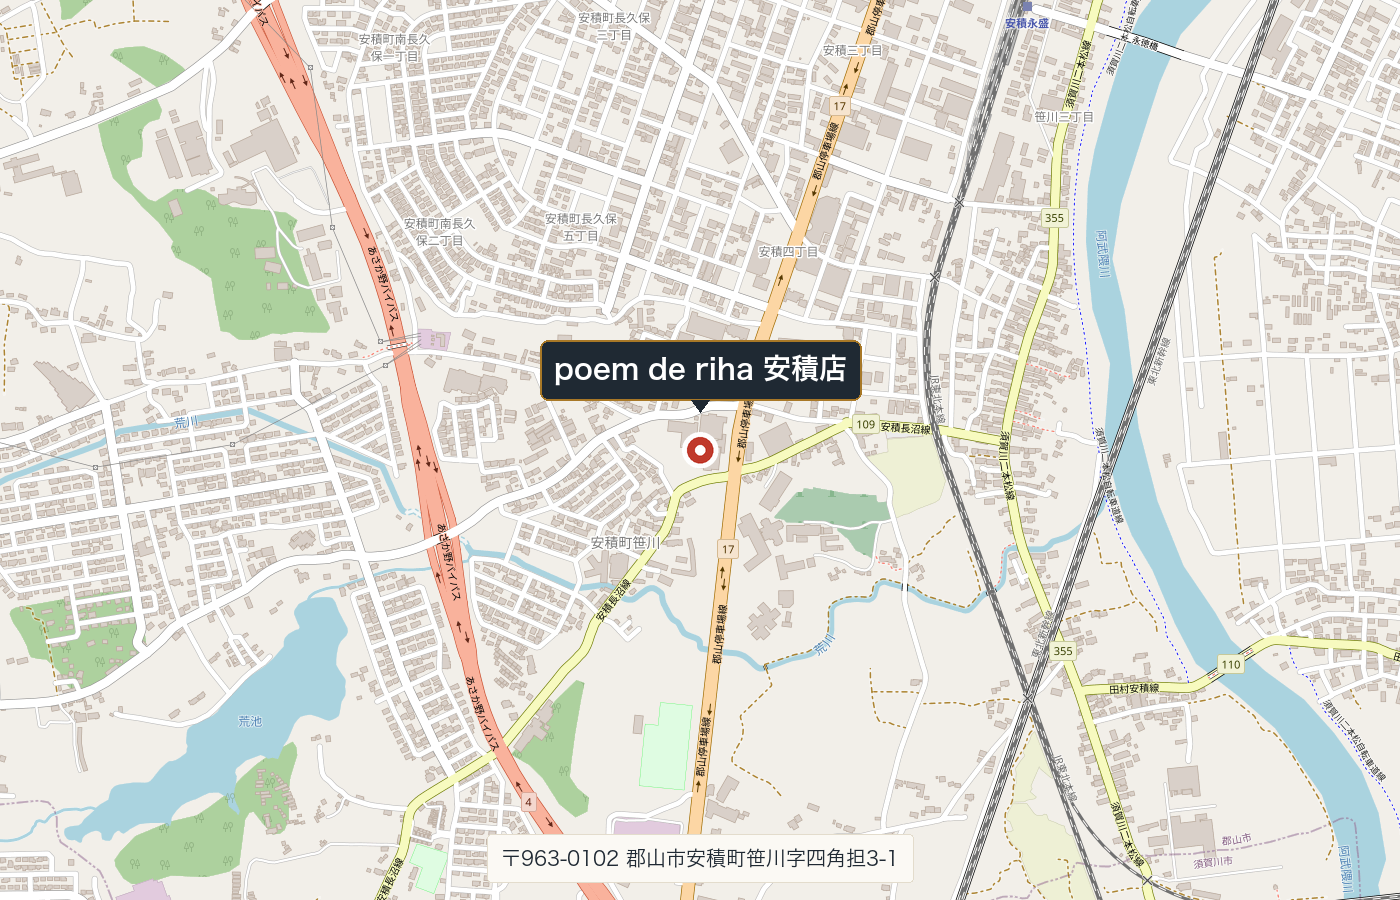
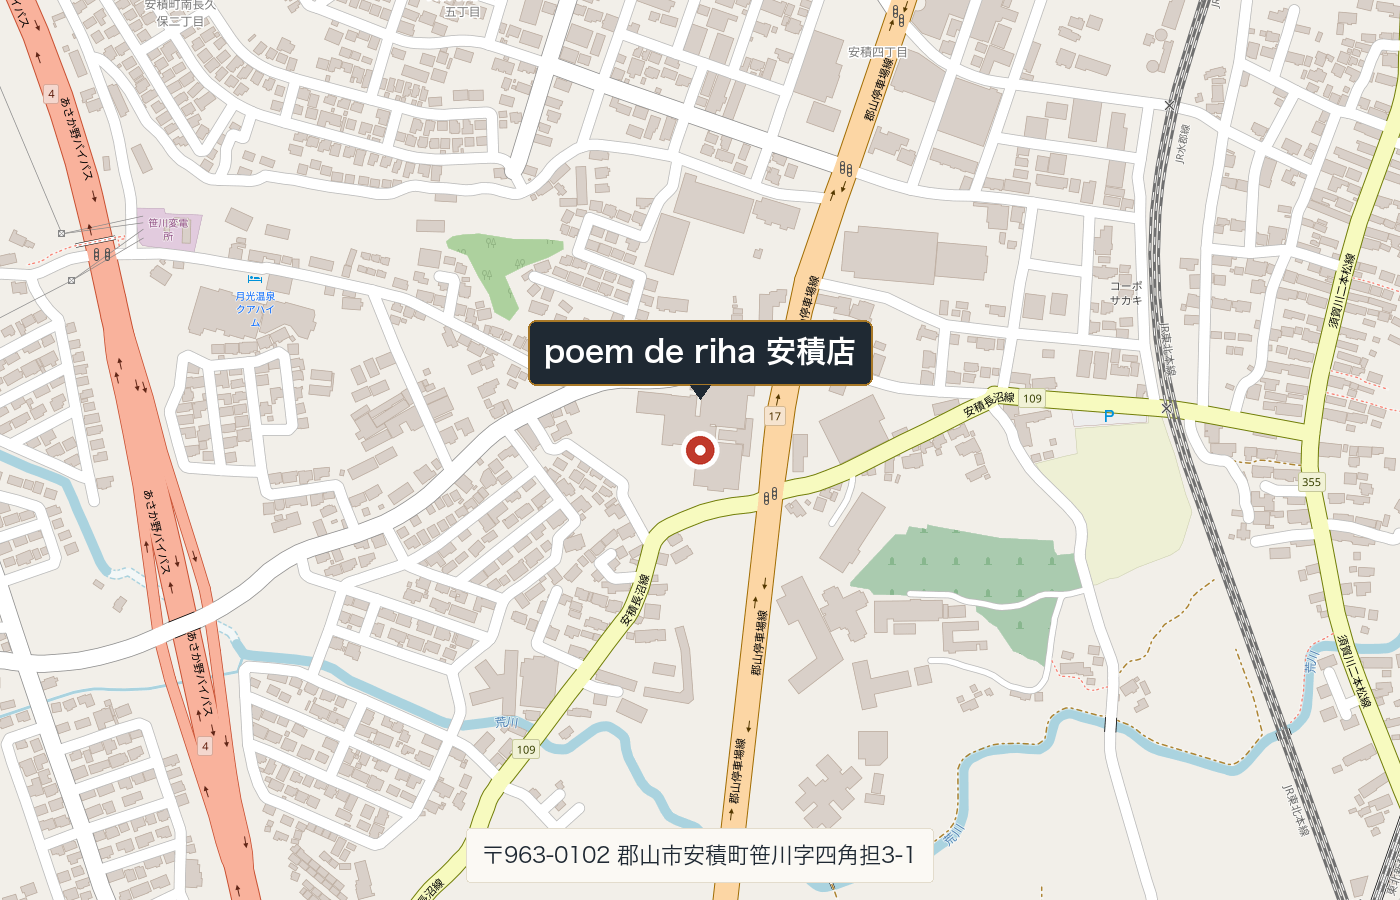
poem-asaka: 印刷時の画像表示・透かし切れ・マップズームを修正
- 全imgから loading=\"lazy\" を削除：印刷プレビュー時にビューポート外の写真が空欄になる問題を解消
- concept-hero::after の透かし「POEM DE RIHA ASAKA」がスクリーン用36px×36px枠の指定を引きずって縦に潰れていたため、印刷時は width/height/border をリセット
- スクリーン用の concept-hero::before 角ゴールド枠も印刷時は非表示に
- アクセスマップを zoom 16 → 17 に拡大（周辺道路・建物がより詳細）

diff --git a/poem-asaka.html b/poem-asaka.html
@@ -849,10 +849,16 @@
       }
       .print-cover { page-break-before: avoid; }
 
+      /* スクリーン版の .concept-hero::before/::after（角ゴールド枠）は印刷時は不要 */
+      .concept-hero::before { display: none !important; }
       .concept-hero::after, section.block::after {
         content: "POEM DE RIHA  ASAKA";
         position: absolute;
-        bottom: 6mm; left: 0; right: 0;
+        bottom: 6mm;
+        left: 0; right: 0;
+        width: auto !important;
+        height: auto !important;
+        border: 0 !important;
         text-align: center;
         font-family: 'Cormorant Garamond', serif;
         font-size: 8.5pt;
@@ -1212,7 +1218,7 @@
             <h3 class="pillar-title">マシーントレーニング</h3>
           </div>
           <div class="pillar-body">
-            <img src="photos/kaisei-machine.jpg" alt="マシーントレーニングの様子（ポエム開成店）" class="pillar-img" loading="lazy">
+            <img src="photos/kaisei-machine.jpg" alt="マシーントレーニングの様子（ポエム開成店）" class="pillar-img">
             <p class="pillar-desc">高齢者の体格や筋力に配慮して設計された専用マシン9種を配備。負荷を細かく調整できるので、無理なく安全に筋力を取り戻せます。「動ける身体」へ最短距離で導きます。</p>
           </div>
         </div>
@@ -1232,7 +1238,7 @@
             <h3 class="pillar-title">楽しい脳トレ</h3>
           </div>
           <div class="pillar-body">
-            <img src="photos/kaisei-brain.jpg" alt="楽しい脳トレ・棒体操の様子（ポエム開成店）" class="pillar-img" loading="lazy">
+            <img src="photos/kaisei-brain.jpg" alt="楽しい脳トレ・棒体操の様子（ポエム開成店）" class="pillar-img">
             <p class="pillar-desc">動画を見ながら取り組む間違い探しやクイズ形式の脳トレを実施。「楽しい」が続く秘訣です。身体を動かしながら頭も使う、二重課題（デュアルタスク）で認知機能の維持・向上をサポートします。</p>
           </div>
         </div>
@@ -1251,7 +1257,7 @@
             <h3 class="pillar-title">PT監修プログラム</h3>
           </div>
           <div class="pillar-body">
-            <img src="photos/kaisei-balloon.jpg" alt="バルーンを使ったPT監修プログラム（ポエム開成店）" class="pillar-img" loading="lazy">
+            <img src="photos/kaisei-balloon.jpg" alt="バルーンを使ったPT監修プログラム（ポエム開成店）" class="pillar-img">
             <p class="pillar-desc">理学療法士（PT）監修のオリジナル体操プログラムを毎日実施。常駐の柔道整復師が、お一人おひとりの身体の状態を見極めながら、その日に最適な運動メニューをご提案します。</p>
           </div>
         </div>
@@ -1445,18 +1451,18 @@
       <p style="text-align:center;font-size:13px;color:var(--ink-soft);margin-bottom:24px;letter-spacing:0.04em">※ 写真はすべてポエム開成店</p>
 
       <div class="gallery-grid">
-        <div class="gallery-item"><img src="photos/kaisei-room.jpg" alt="フロア全景" loading="lazy"></div>
-        <div class="gallery-item"><img src="photos/kaisei-floor2.jpg" alt="活動風景（別アングル）" loading="lazy"></div>
-        <div class="gallery-item"><img src="photos/kaisei-floor3.jpg" alt="施設内の様子" loading="lazy"></div>
-        <div class="gallery-item"><img src="photos/kaisei-machine.jpg" alt="マシーントレーニング" loading="lazy"></div>
-        <div class="gallery-item"><img src="photos/kaisei-brain.jpg" alt="棒体操" loading="lazy"></div>
-        <div class="gallery-item"><img src="photos/kaisei-balloon.jpg" alt="バルーンを使ったプログラム" loading="lazy"></div>
-        <div class="gallery-item"><img src="photos/kaisei-ball.jpg" alt="バランスボールでのリハビリ" loading="lazy"></div>
-        <div class="gallery-item"><img src="photos/kaisei-pt.jpg" alt="石井さんの体操指導" loading="lazy"></div>
-        <div class="gallery-item"><img src="photos/kaisei-care.jpg" alt="個別の施術" loading="lazy"></div>
-        <div class="gallery-item"><img src="photos/kaisei-talk.jpg" alt="スタッフと利用者の対話" loading="lazy"></div>
-        <div class="gallery-item"><img src="photos/kaisei-staff.jpg" alt="スタッフ" loading="lazy"></div>
-        <div class="gallery-item"><img src="photos/kaisei-nurse.jpg" alt="看護職員" loading="lazy"></div>
+        <div class="gallery-item"><img src="photos/kaisei-room.jpg" alt="フロア全景"></div>
+        <div class="gallery-item"><img src="photos/kaisei-floor2.jpg" alt="活動風景（別アングル）"></div>
+        <div class="gallery-item"><img src="photos/kaisei-floor3.jpg" alt="施設内の様子"></div>
+        <div class="gallery-item"><img src="photos/kaisei-machine.jpg" alt="マシーントレーニング"></div>
+        <div class="gallery-item"><img src="photos/kaisei-brain.jpg" alt="棒体操"></div>
+        <div class="gallery-item"><img src="photos/kaisei-balloon.jpg" alt="バルーンを使ったプログラム"></div>
+        <div class="gallery-item"><img src="photos/kaisei-ball.jpg" alt="バランスボールでのリハビリ"></div>
+        <div class="gallery-item"><img src="photos/kaisei-pt.jpg" alt="石井さんの体操指導"></div>
+        <div class="gallery-item"><img src="photos/kaisei-care.jpg" alt="個別の施術"></div>
+        <div class="gallery-item"><img src="photos/kaisei-talk.jpg" alt="スタッフと利用者の対話"></div>
+        <div class="gallery-item"><img src="photos/kaisei-staff.jpg" alt="スタッフ"></div>
+        <div class="gallery-item"><img src="photos/kaisei-nurse.jpg" alt="看護職員"></div>
       </div>
     </section>
 
@@ -1562,12 +1568,12 @@
       </div>
 
       <div class="access-map">
-        <iframe src="https://www.google.com/maps/embed?pb=!1m18!1m12!1m3!1d3171.7050828152483!2d140.36211223886934!3d37.349490180565745!2m3!1f0!2f0!3f0!3m2!1i1024!2i768!4f13.1!3m3!1m2!1s0x60206b26b8e3a1c3%3A0xe020f6ded81afc58!2z44CSOTYzLTAxMDIg56aP5bO255yM6YOh5bGx5biC5a6J56mN55S656y55bed5Zub6KeS5Z2m77yT4oiS77yR!5e0!3m2!1sja!2sjp!4v1777480647477!5m2!1sja!2sjp" allowfullscreen="" loading="lazy" referrerpolicy="no-referrer-when-downgrade" title="poem de riha 安積店 地図"></iframe>
+        <iframe src="https://www.google.com/maps/embed?pb=!1m18!1m12!1m3!1d3171.7050828152483!2d140.36211223886934!3d37.349490180565745!2m3!1f0!2f0!3f0!3m2!1i1024!2i768!4f13.1!3m3!1m2!1s0x60206b26b8e3a1c3%3A0xe020f6ded81afc58!2z44CSOTYzLTAxMDIg56aP5bO255yM6YOh5bGx5biC5a6J56mN55S656y55bed5Zub6KeS5Z2m77yT4oiS77yR!5e0!3m2!1sja!2sjp!4v1777480647477!5m2!1sja!2sjp" allowfullscreen="" referrerpolicy="no-referrer-when-downgrade" title="poem de riha 安積店 地図"></iframe>
       </div>
 
       <!-- 印刷時：施設アクセスマップ（ウェブのiframeの代わり） -->
       <div class="access-map-print">
-        <img src="photos/access-asaka.png?v=20260502c" alt="施設アクセスマップ" class="access-map-print-img">
+        <img src="photos/access-asaka.png?v=20260502d" alt="施設アクセスマップ" class="access-map-print-img">
         <p class="map-attr">地図データ © OpenStreetMap contributors</p>
       </div>
     </section>
